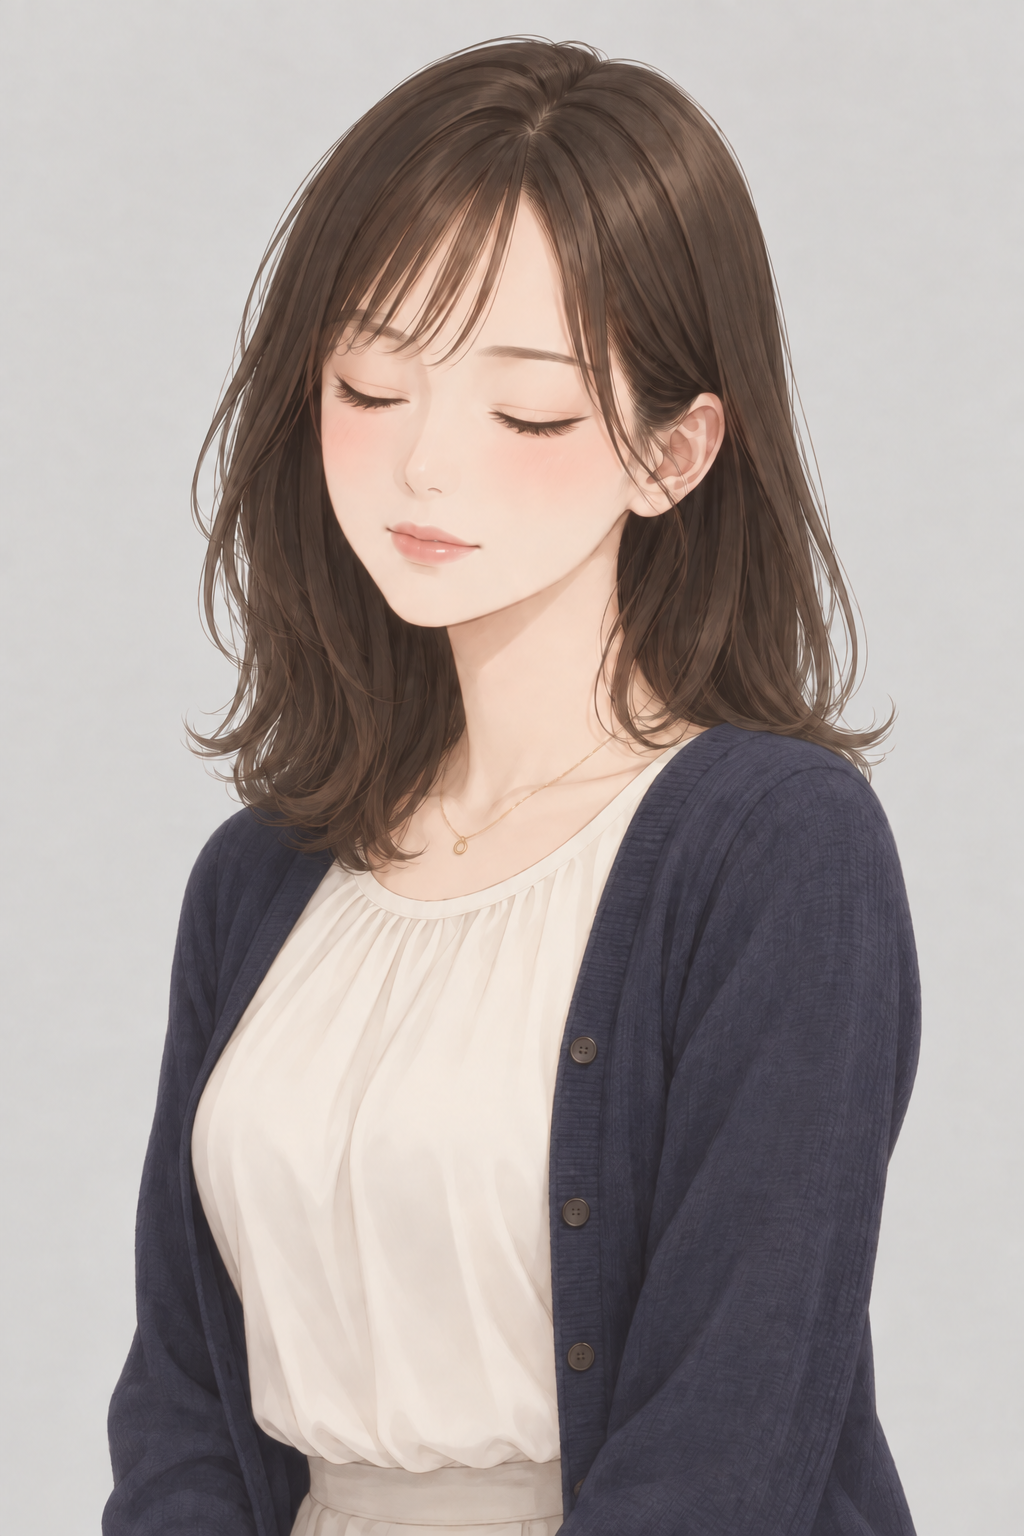
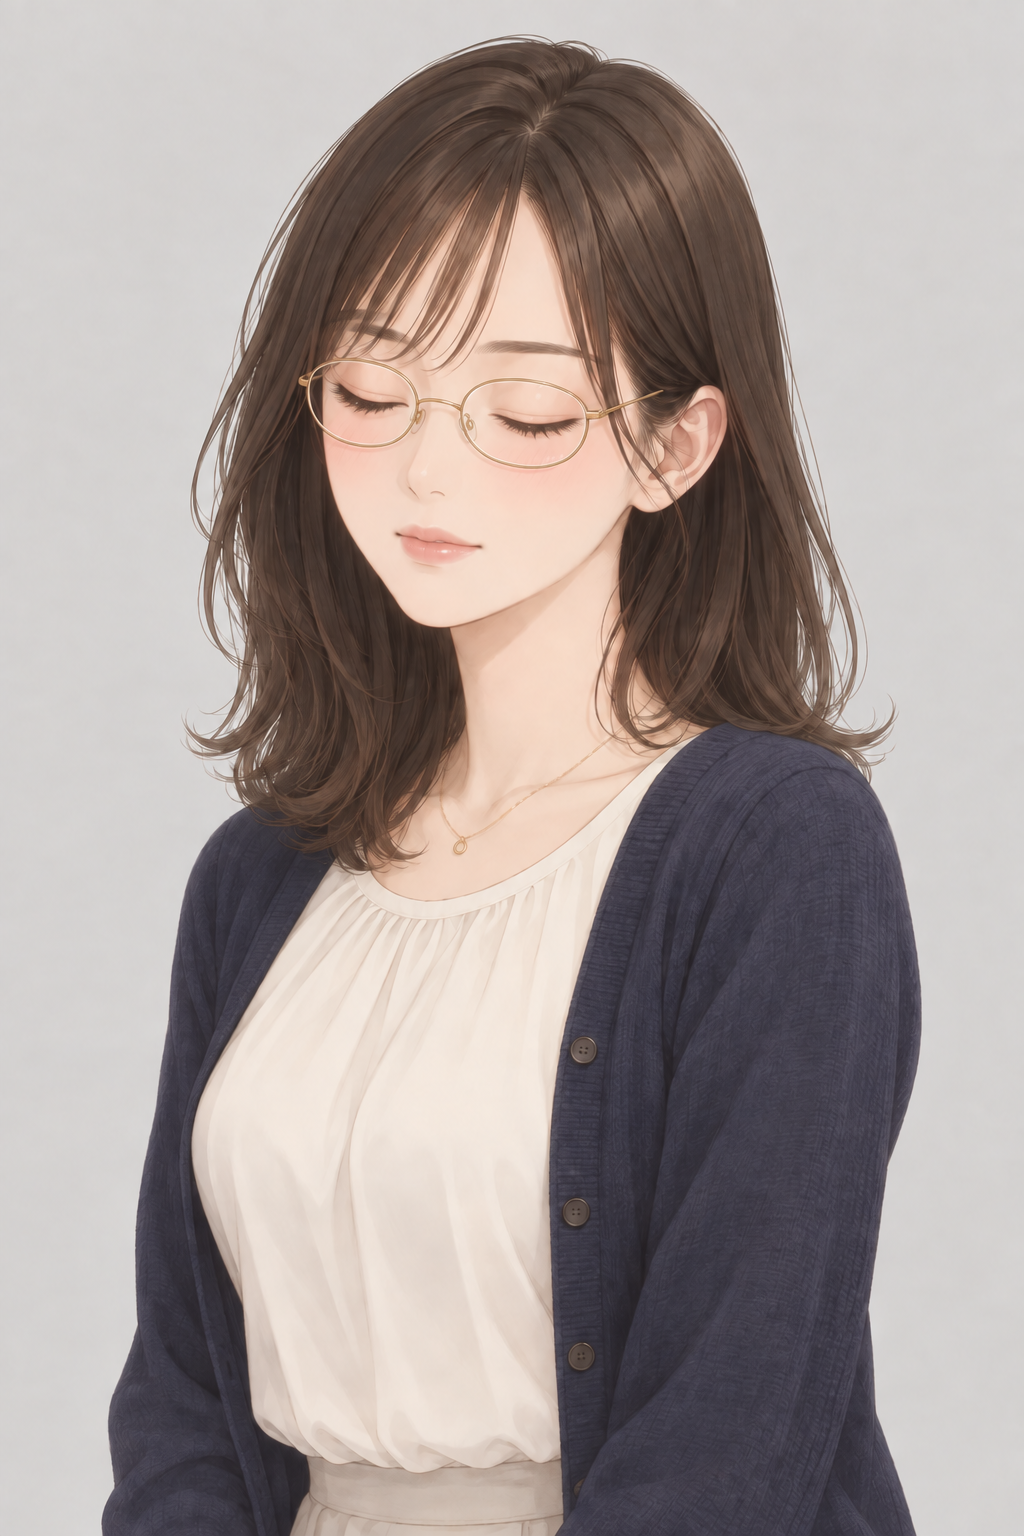
Add writing, planning and listening faces, three idle gestures and a glasses reading face for Koharu
Edit and Write now show a pleased writing face, TodoWrite and similar tools a planning glance, and MCP tools a listening face. Reading gets glasses so it no longer looks like the plain working face. Book, doze and hum gestures join the idle set, and all gestures stay on screen longer. build.py gains keep rectangles so the floating notes survive background removal.

Changed region(s): [[0.2812, 0.1875, 0.75, 0.4375], [0.3438, 0.3438, 0.4062, 0.4062], [0.4375, 0.4062, 0.4688, 0.4688]]

diff --git a/tools/character/build.py b/tools/character/build.py
@@ -9,6 +9,8 @@
     {"face": "<画像>"}                  差分画像の顔の領域だけを基準画像へ合成する
     {"face": "<画像>", "onto": "<状態>"}  顔の領域を、基準画像ではなく別の状態の合成結果へ合成する
     {"whole": "<画像>"}                 差分画像を合成せずにそのまま使う（腕を描き足した差分など）
+    {"whole": "<画像>", "keep": [[x0, y0, x1, y1], ...]}
+                                        矩形の中は背景の色との差で前景を決める（人物から離れて浮く記号など）
 """
 
 import argparse
@@ -54,7 +56,7 @@ def face_mask(ellipse, a_base):
     return np.asarray(blurred).astype(np.float64)[..., None] / 255
 
 
-def matte(rgb, a_model):
+def matte(rgb, a_model, keep=None):
     """rembg の透明度から trimap を作り、縁の帯だけを closed-form matting で解き直す。
 
     rembg の透明度は髪の縁で不透明寄りに出て、縁の画素に背景のグレーが残る。そのまま
@@ -71,9 +73,23 @@ def matte(rgb, a_model):
     trimap = np.full(a_model.shape, 0.5)
     trimap[fg] = 1
     trimap[bg] = 0
+    if keep is not None:
+        # rembg は人物から離れた小さな記号を背景とみなして消すので、指定の矩形の中だけは
+        # 背景の色との差で前景と背景を決め、境目は matting に任せる
+        dist = np.linalg.norm(rgb01 - bg_color, axis=2)
+        trimap[keep] = np.where(dist[keep] > 60 / 255, 1, np.where(dist[keep] < 12 / 255, 0, 0.5))
     alpha = np.clip(estimate_alpha_cf(rgb01, trimap), 0, 1)
     fore = np.clip(estimate_foreground_ml(rgb01, alpha), 0, 1)
     return alpha, fore
+
+
+def keep_mask(rects, shape):
+    if not rects:
+        return None
+    mask = np.zeros(shape, dtype=bool)
+    for x0, y0, x1, y1 in rects:
+        mask[y0:y1, x0:x1] = True
+    return mask
 
 
 def compose(config, session):
@@ -111,7 +127,8 @@ def compose(config, session):
     mattes = {"base": matte(base, a_base)}
     for state, group in groups.items():
         if group != "base":
-            mattes[group] = matte(composed[state], rembg_alpha(composed[state], session))
+            keep = keep_mask(config["states"][state].get("keep"), composed[state].shape[:2])
+            mattes[group] = matte(composed[state], rembg_alpha(composed[state], session), keep)
     return composed, groups, mattes
 
 

diff --git a/docs/customize.md b/docs/customize.md
@@ -55,7 +55,7 @@
 
 ## 自分のキャラクターを作る
 
-立ち絵の素材は、リポジトリの `assets/character/` の下にキャラクターごとのフォルダで置き、アプリのビルド時にアプリの中へ組み込まれます。組み込みのキャラクターは、小春の `koharu` と Clawd の `clawd` です。コードを変えずにキャラクターを加えられ、次のようにしてからアプリをビルドし直します。
+立ち絵の素材は、リポジトリの `assets/character/` の下にキャラクターごとのフォルダで置き、アプリのビルド時にアプリの中へ組み込まれます。組み込みのキャラクターは、小春（秋月小春）の `koharu` と Clawd の `clawd` です。コードを変えずにキャラクターを加えられ、次のようにしてからアプリをビルドし直します。
 
 1. `assets/character/` の下に、キャラクターの名前（英小文字で書く識別名の ID）のフォルダを作り、画像と `manifest.json` と既定のセリフの `dialogue.json` を置きます。
 2. `assets/character/index.json` の配列に、その名前を加えます。配列の順が右クリックメニューの「キャラクター」に並ぶ順になり、先頭のキャラクターが既定になります。起動したときに、保存した名前がこの一覧に無い場合や、そのキャラクターの `manifest.json` を読めない場合は、先頭（既定）のキャラクターを試します。`index.json` そのものを読めない場合も、既定の `koharu` を読み込み、メニューにも `koharu` を出します。右クリックメニューからの切り替えに失敗したときは、変更前のキャラクターのままです。表情の画像を読めないときの扱いは、この節の最後に書いています。
@@ -74,7 +74,7 @@
 | `expressions` | 表情の名前ごとに、画像ファイル `image` と、瞬きの差分 `blink` を書きます。`blink` を書いた表情だけが瞬きします |
 | `rules.status` | 五つの状態（`idle`、`working`、`waiting`、`done`、`error`）ごとの基本の表情です |
 | `rules.variants` | セリフの分類名（[セリフを変える](#セリフを変える)の表にあるもの）ごとに、その分類のときに使う表情を書きます。たとえば `"done.long": "idle_stretch"` と書くと、15 分以上かかって終わったときに `idle_stretch` を出します。状態の基本の表情より優先し、細かい分類が無ければ基本の表情になります（セリフと違い、親の分類には戻りません）。画像を読めない表情も基本の表情で代用します。既定では、小春が `done.long` と `error.rate_limit` に使っています |
-| `rules.working_tools` | 作業中に、ツール名の一覧 `tools` のどれかを使っていたら表情 `expression` に切り替えます。既定では Bash、PowerShell、Edit、Write、NotebookEdit、Codex のファイルの編集の apply_patch で `working_focus`、Read、Grep、Glob で `working_read`、WebSearch と WebFetch で `working_curious`、サブエージェントを起動する Agent、Task、spawn_agent（Codex）で `working_delegate` を使います。ツール名の末尾に `*` を付けると、その前までが一致するツールすべてに効きます。MCP のツールは `mcp__<サーバー名>__<ツール名>` の名前で届くので、`mcp__*` と書けばまとめて指定できます。完全一致の指定があれば、そちらを優先します。`max_ms` を書くと、その表情を続けて見せる時間の上限（ミリ秒）になり、過ぎたら作業中の基本の表情へ戻します。サブエージェントが動く間は同じツールが何分も続き、ウインクが張り付くと不自然なので、既定では `working_delegate` を 30000 にしています |
+| `rules.working_tools` | 作業中に、ツール名の一覧 `tools` のどれかを使っていたら表情 `expression` に切り替えます。既定では Bash と PowerShell で `working_focus`、Edit、Write、NotebookEdit、Codex のファイルの編集の apply_patch で `working_write`、Read、Grep、Glob で `working_read`、WebSearch と WebFetch で `working_curious`、TodoWrite、Codex の update_plan、ToolSearch、Skill で `working_plan`、MCP のツールで `working_listen`、サブエージェントを起動する Agent、Task、spawn_agent（Codex）で `working_delegate` を使います。ツール名の末尾に `*` を付けると、その前までが一致するツールすべてに効きます。MCP のツールは `mcp__<サーバー名>__<ツール名>` の名前で届くので、`mcp__*` と書けばまとめて指定できます。完全一致の指定があれば、そちらを優先します。`max_ms` を書くと、その表情を続けて見せる時間の上限（ミリ秒）になり、過ぎたら作業中の基本の表情へ戻します。サブエージェントが動く間は同じツールが何分も続き、ウインクが張り付くと不自然なので、既定では `working_delegate` を 30000 にしています |
 | `rules.working_no_tool` | 作業中に、ツールを使っていないとき（考えているときや応答を書いているとき）の表情です。既定では `working_think` を使います。書かなければ `rules.status` の作業中の表情のままです |
 | `rules.min_switch_ms` | 作業中の表情を切り替える最短の間隔（ミリ秒）です。ツールは数秒ごとに変わるので、ちらつかないように間を空けます。既定は 4000 です |
 | `rules.idle_gestures` | 待機中の仕草です。`interval_ms` は仕草の間隔の最小と最大、`gestures` は仕草の表情と、見せる時間 `duration_ms` の最小と最大です。直前と同じ仕草は続けて選ばれません |
@@ -130,6 +130,7 @@ python3 -m venv .venv
 | `{"face": "<画像>"}` | 差分の画像の顔の範囲だけを、基準の画像へ合成します |
 | `{"face": "<画像>", "onto": "<状態>"}` | 顔の範囲を、基準の画像ではなく別の状態の合成結果へ合成します。作業中の表情の瞬きの差分などに使います |
 | `{"whole": "<画像>"}` | 合成せずにそのまま使います。腕を描き足した承認待ちや、全体を描き直した仕草の差分に使います |
+| `{"whole": "<画像>", "keep": [[x0, y0, x1, y1]]}` | `whole` と同じですが、元の画像の座標で書いた矩形の中だけは、背景の色との差で前景と背景を分けます。rembg は人物から離れて浮く小さな記号を背景として消すので、鼻歌の仕草の音符のようなものを残すのに使います |
 
 採用した元の画像は `art/<キャラクター名>/` に置きます。`build.py` は PNG だけを書き出し、`manifest.json` は書き換えないので、表情を増やしたときは `manifest.json` も自分で編集します。
 

diff --git a/docs/usage.md b/docs/usage.md
@@ -185,7 +185,7 @@ Windows では次のように動きます。デスクトップアプリの Code 
 
 立ち絵の表情は、全体の状態に合わせて変わります（[状態の種類と優先度](../README.md#状態の種類と優先度)を参照）。待機中と作業中は、瞬きと呼吸のような小さな動きがあります。表情の切り替えは、瞬きを除いてクロスフェード（前の絵を薄くしながら次の絵へ移すこと）で行います。
 
-小春の作業中の顔は、使っているツールによって、真剣に集中した顔、文字を目で追う顔、興味深そうに調べる顔、ウインクして「任せて」という顔に変わります。ツールを使わずに考えたり応答を書いたりしている間は考え込む顔になり、それ以外のツールでは手元を読む顔になります。どのツールでどの顔になるかは、[自分のキャラクターを作る](customize.md#自分のキャラクターを作る)の `rules.working_tools` に書いています。待機中は 20 秒から 60 秒に一度ほど、小春なら視線を外す、髪を耳にかける、あくびをする、マグカップでひと息つく、顎に手を添える、伸びをする、のどれかの仕草を 3 秒から 5 秒ほど見せます。
+小春の作業中の顔は、使っているツールによって、真剣に集中した顔、書いたものがうまく動いて嬉しそうに笑う顔、眼鏡をかけて文字を目で追う顔、興味深そうに調べる顔、横目で手順を確かめる顔、相手の話に耳を傾ける顔、ウインクして「任せて」という顔に変わります。ツールを使わずに考えたり応答を書いたりしている間は考え込む顔になり、それ以外のツールでは手元を読む顔になります。どのツールでどの顔になるかは、[自分のキャラクターを作る](customize.md#自分のキャラクターを作る)の `rules.working_tools` に書いています。待機中は 20 秒から 60 秒に一度ほど、小春なら視線を外す、髪を耳にかける、あくびをする、マグカップでひと息つく、顎に手を添える、伸びをする、鼻歌を歌う、のどれかの仕草を 5 秒から 8 秒ほど、文庫本を読む、うたた寝をする、のどちらかの仕草を 8 秒から 12 秒ほど見せます。
 
 完了と承認待ちとエラーの顔は、吹き出しのセリフと同じ分類で、状態の中の違いによって変えられます。小春は、15 分以上かかった作業が終わったとき（`done.long`）は目を閉じて伸びをする顔、利用制限に達して止まったとき（`error.rate_limit`）はマグカップでひと息つく顔になります。分類の一覧は[セリフを変える](customize.md#セリフを変える)に、表情の指定の仕方は `rules.variants` に書いています。
 

diff --git a/README.md b/README.md
@@ -44,7 +44,7 @@ marimo は Claude Code のセッションを次の五つの状態に分けて扱
 marimo の窓は、立ち絵、吹き出し、パネルの三つでできています。
 
 <p align="center">
-  <img src="docs/images/expressions.jpg" width="640" alt="既定のキャラクターの表情の一覧。待機、作業中の六種類、承認待ち、完了、エラー、押したとき、待機中の五つの仕草">
+  <img src="docs/images/expressions.jpg" width="640" alt="既定のキャラクターの表情の一覧。待機、作業中の九種類、承認待ち、完了、エラー、押したとき、待機中の九つの仕草">
 </p>
 
 - **立ち絵**は、全体の状態をひと目で伝えます。待機中と作業中は瞬きと呼吸のような小さな動きがあり、作業中は使っているツールによって顔が変わり、待機中はときどき仕草を見せます。表情の一覧と切り替わり方は、[立ち絵の表情](docs/usage.md#立ち絵の表情)に書いています。
